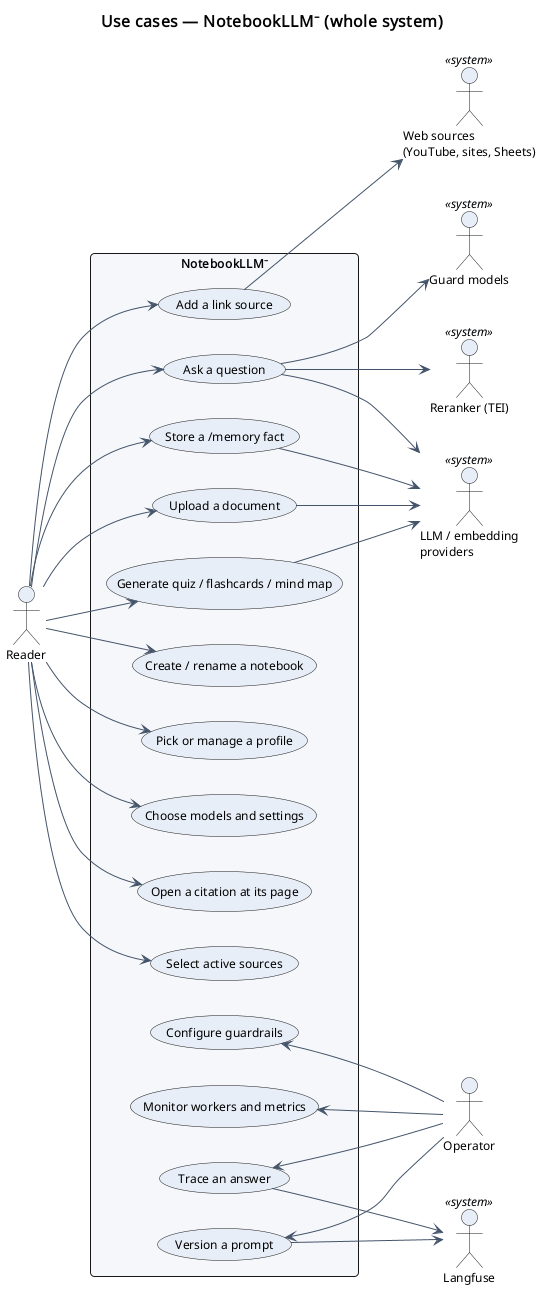
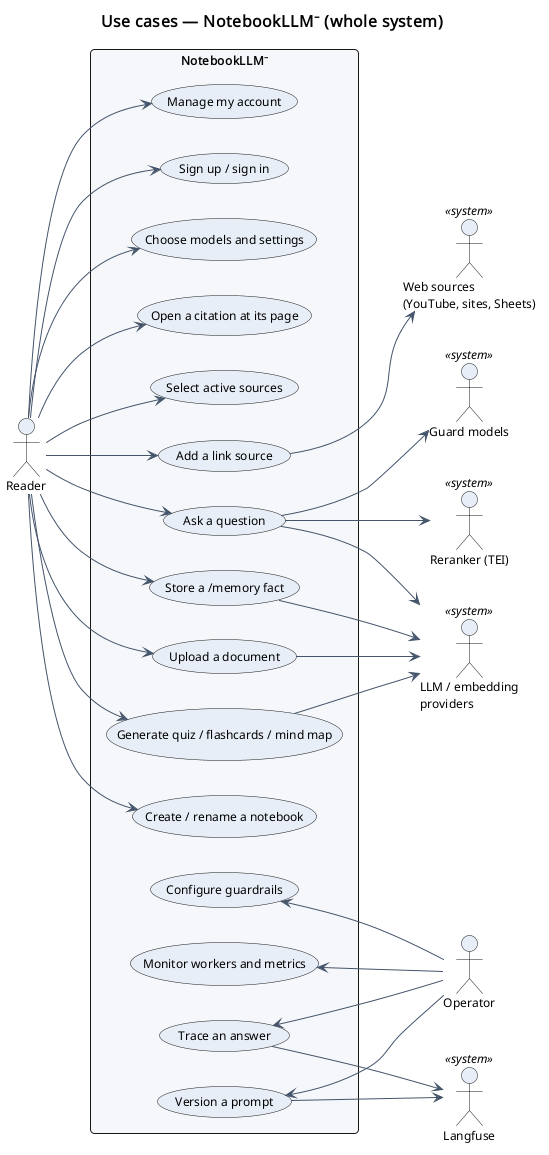
Document accounts and per-user isolation in the UML
New diagrams: user-story epic 07 (accounts and privacy), the accounts use
case, the signup/login and request-authorization sequences, and the
accounts class diagram. The whole-system sequence, class and use-case
diagrams now show the login layer, and epic 01 no longer describes a
profile picker. All 29 diagrams re-rendered.

diff --git a/software_engineering/README.md b/software_engineering/README.md
@@ -1,8 +1,8 @@
 # Software engineering docs
 
 UML for NotebookLLM⁻, written in PlantUML. Every `.puml` has its rendered `.png` committed next
-to it. The diagrams describe the system as it is now, including agentic answering, reranking,
-guardrails and Langfuse. Update them in the same change as the code they describe.
+to it. The diagrams describe the system as it is now, including accounts and per-user isolation,
+agentic answering, reranking, guardrails and Langfuse. Update them in the same change as the code they describe.
 
 ## Rendering
 
@@ -20,12 +20,13 @@ different jar. `_style.iuml` holds the shared look.
 
 | Epic | Diagram |
 | --- | --- |
-| Profiles and notebooks | [01_profiles_and_notebooks](1_user_stories/01_profiles_and_notebooks.png) |
+| Account and notebooks | [01_profiles_and_notebooks](1_user_stories/01_profiles_and_notebooks.png) |
 | Sources and ingestion | [02_sources_and_ingest](1_user_stories/02_sources_and_ingest.png) |
 | Grounded chat (agentic RAG, reranking) | [03_chat_and_citations](1_user_stories/03_chat_and_citations.png) |
 | Guardrails | [04_guardrails](1_user_stories/04_guardrails.png) |
 | Memory and Studio | [05_memory_and_studio](1_user_stories/05_memory_and_studio.png) |
 | Settings, observability, prompt versions | [06_settings_and_operations](1_user_stories/06_settings_and_operations.png) |
+| Accounts and privacy | [07_accounts_and_privacy](1_user_stories/07_accounts_and_privacy.png) |
 
 ## 2. Use case diagrams — `2_use_case_diagrams/`
 
@@ -36,12 +37,15 @@ different jar. `_style.iuml` holds the shared look.
 | Chat with guardrails | [chat](2_use_case_diagrams/chat.png) |
 | Studio and memory | [studio_and_memory](2_use_case_diagrams/studio_and_memory.png) |
 | Operations and observability | [operations](2_use_case_diagrams/operations.png) |
+| Accounts and privacy | [accounts](2_use_case_diagrams/accounts.png) |
 
 ## 3. Sequence diagrams — `3_sequence_diagrams/`
 
 | Flow | Diagram |
 | --- | --- |
-| **Whole system**, upload to a guarded, cited answer | [system_overview](3_sequence_diagrams/system_overview.png) |
+| **Whole system**, sign in → upload → a guarded, cited answer | [system_overview](3_sequence_diagrams/system_overview.png) |
+| Sign up, sign in, sign out | [signup_login](3_sequence_diagrams/signup_login.png) |
+| Every data request: session, then ownership | [request_authorization](3_sequence_diagrams/request_authorization.png) |
 | Chat: guardrails → plan → rerank → parts → synthesis | [chat_agentic_rag](3_sequence_diagrams/chat_agentic_rag.png) |
 | Guardrail micro-batching (N items or T seconds) | [guardrail_microbatch](3_sequence_diagrams/guardrail_microbatch.png) |
 | Upload → ingest → index | [upload_ingest](3_sequence_diagrams/upload_ingest.png) |
@@ -59,3 +63,4 @@ different jar. `_style.iuml` holds the shared look.
 | Application services | [services](4_class_diagrams/services.png) |
 | Data tier: providers, repositories, models | [data_repositories](4_class_diagrams/data_repositories.png) |
 | Guardrails (LangChain middleware) and Celery jobs | [guardrails_and_tasks](4_class_diagrams/guardrails_and_tasks.png) |
+| Accounts: models, repositories, services, login layer | [accounts](4_class_diagrams/accounts.png) |
